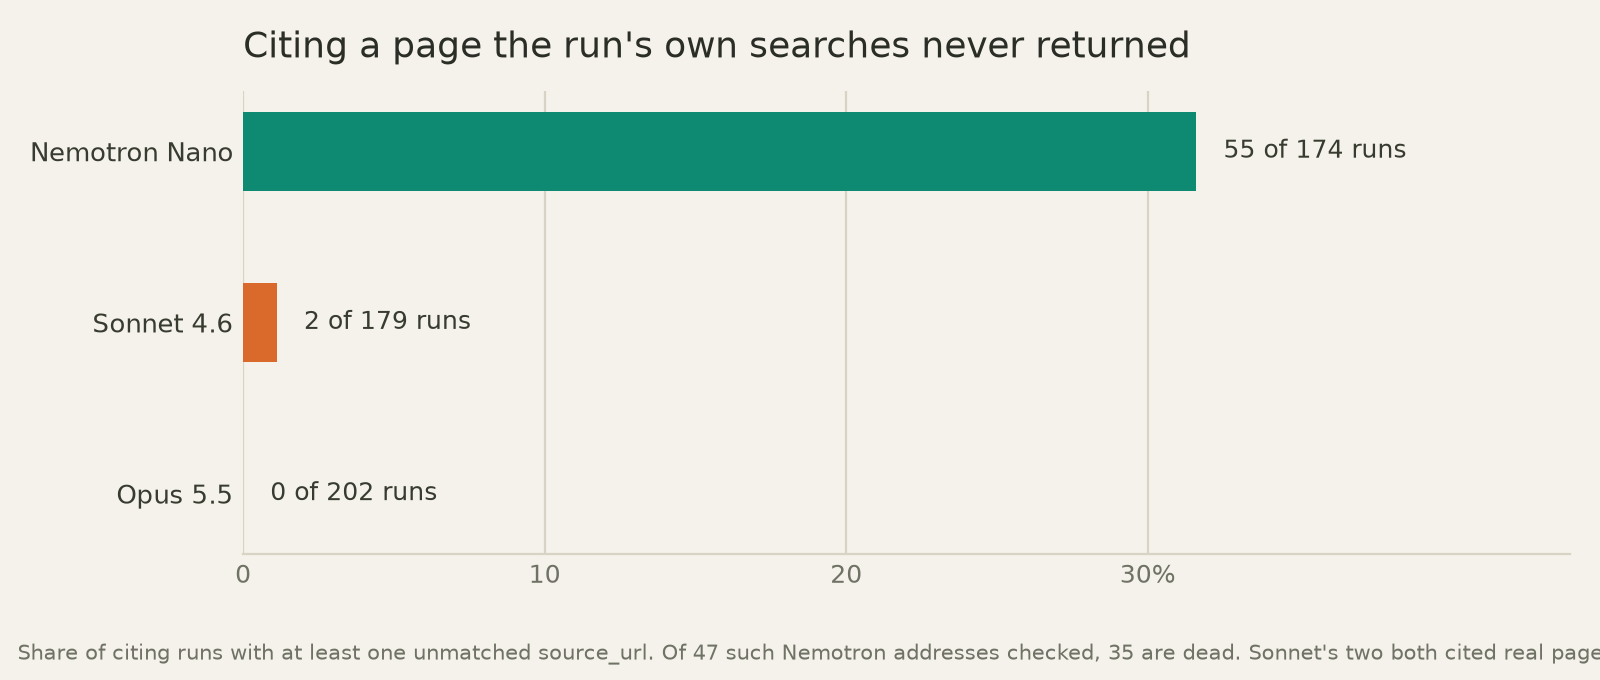
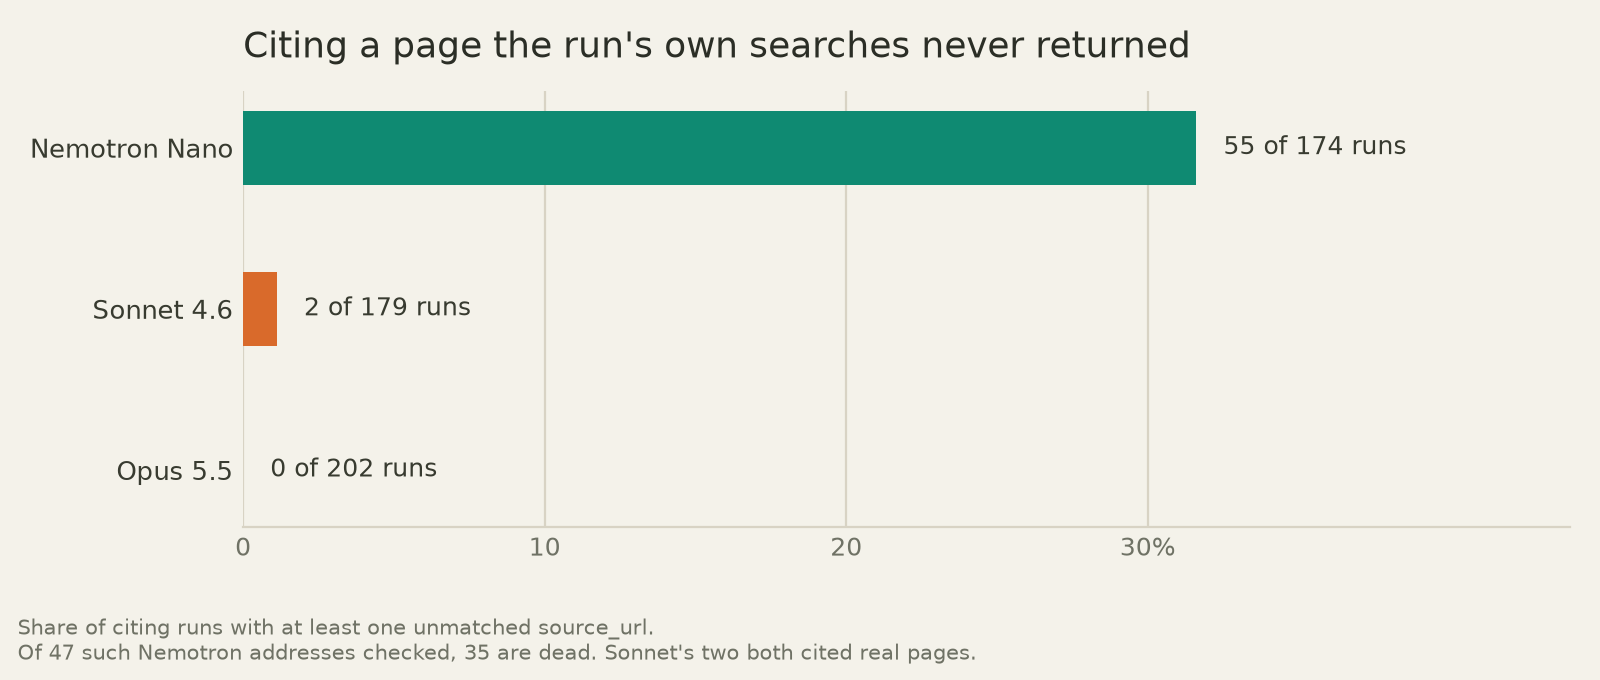
Charts: skip _rescored duplicates (overdose 17/22, matches FINDINGS) and wrap citation footnote

diff --git a/scripts/plot_findings.py b/scripts/plot_findings.py
@@ -83,7 +83,7 @@ def setup_axes(ax):
 def load():
     """Yield (model_label, gated, record) for every non-error run."""
     for path in sorted(RESULTS.glob("*.jsonl")):
-        if path.name.endswith("_judged.jsonl"):
+        if path.name.endswith(("_judged.jsonl", "_rescored.jsonl")):
             continue
         gated = path.name == GATED_FILE
         for line in path.open():
@@ -260,11 +260,11 @@ def citation_chart():
     ax.set_title("Citing a page the run's own searches never returned",
                  fontsize=13, color=INK, loc="left", pad=12)
     fig.text(0.011, 0.03,
-             "Share of citing runs with at least one unmatched source_url. Of "
-             "47 such Nemotron addresses checked, 35 are dead. Sonnet's two "
+             "Share of citing runs with at least one unmatched source_url.\n"
+             "Of 47 such Nemotron addresses checked, 35 are dead. Sonnet's two "
              "both cited real pages.",
              fontsize=7.4, color=MUTED)
-    fig.tight_layout(rect=(0, 0.09, 1, 1))
+    fig.tight_layout(rect=(0, 0.13, 1, 1))
     out = ASSETS / "citation_mismatch.png"
     fig.savefig(out, facecolor=BG)
     plt.close(fig)
